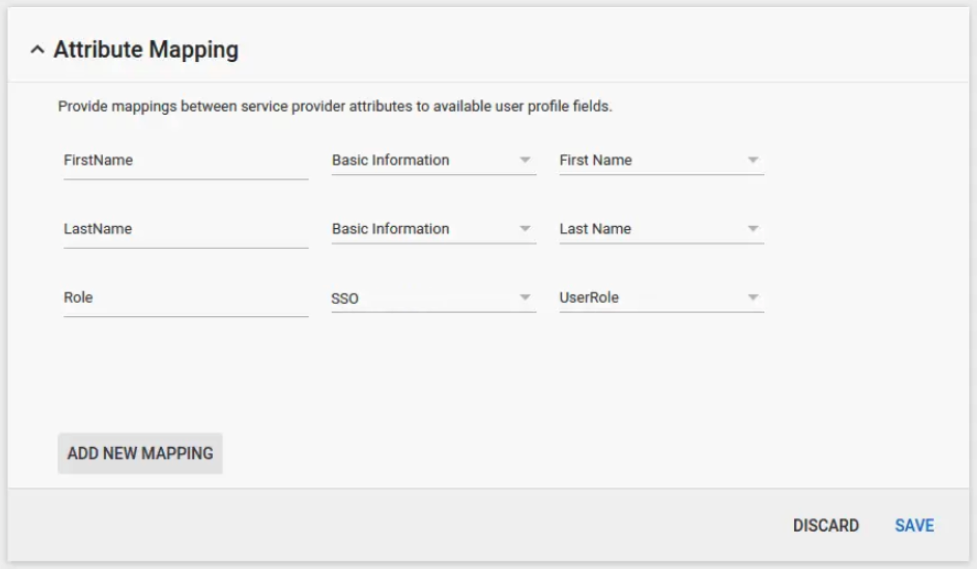
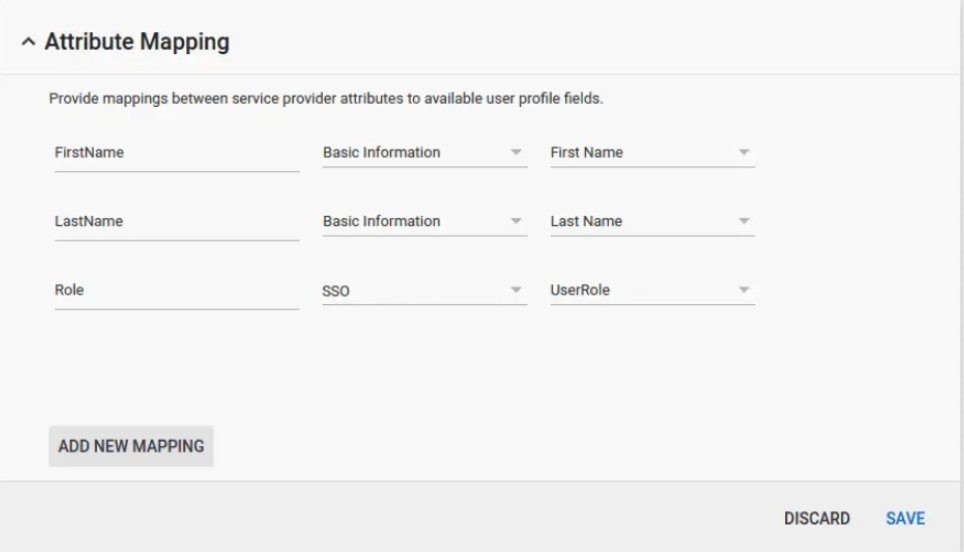
Update oidc-google
Added Attribute Mapping screen to step 4 in Sync users by assigning custom schema

diff --git a/_docs/single-sign-on/oidc/oidc-google.md b/_docs/single-sign-on/oidc/oidc-google.md
@@ -176,6 +176,17 @@ Use this method to sync only those users who have been assigned the user role wi
     %}
 
 1. Expand the Attribute Mapping settings, and add a Role attribute with the above schema for `SSO` and `UserRole`.
+
+    {% include image.html
+    lightbox="true"
+    file="/images/administration/sso/google/map-attributes.png"
+    url="/images/administration/sso/google/map-attributes.png"
+    alt="Add Role attribute in GSuite Admin panel"
+    caption="Add Role attribute in GSuite Admin panelß"
+    max-width="40%"
+    %}
+
+
 1. For every user to be synced, in the User Information screen, scroll to `SSO > UserRole`, and assign the user role.
 
   {% include image.html
